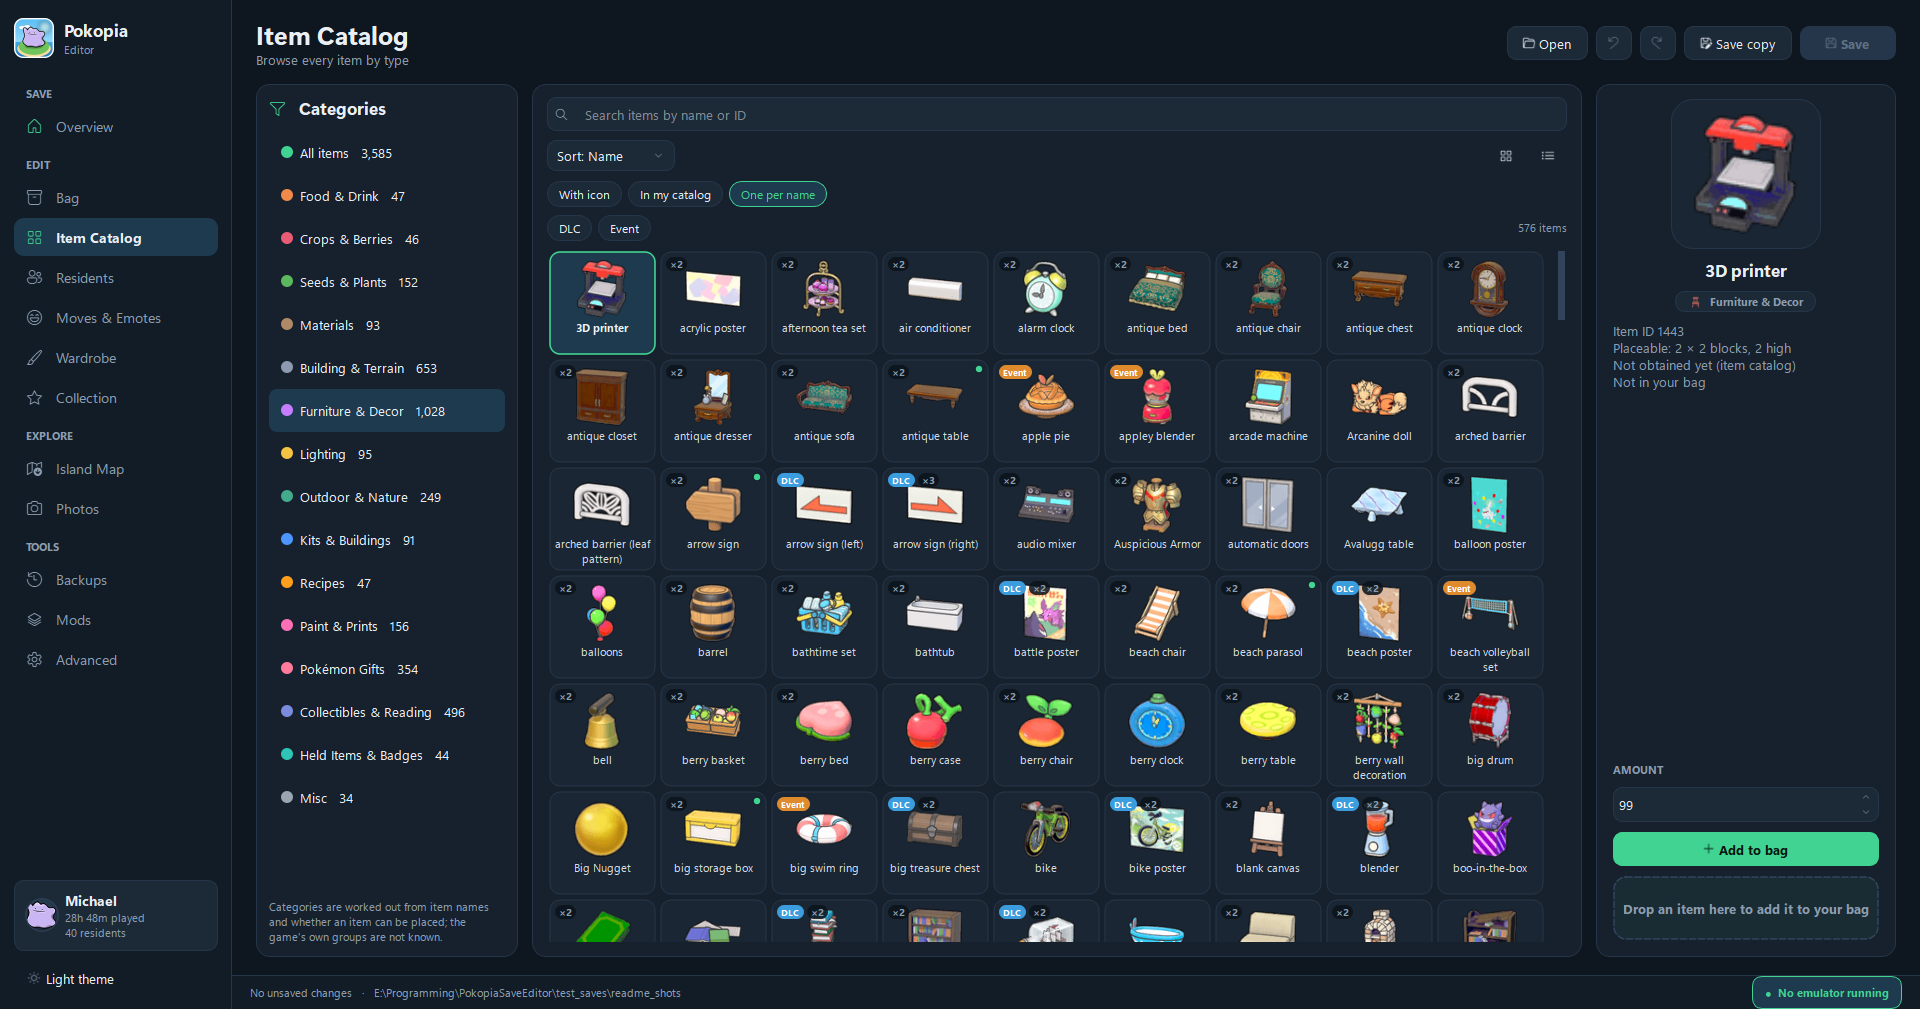
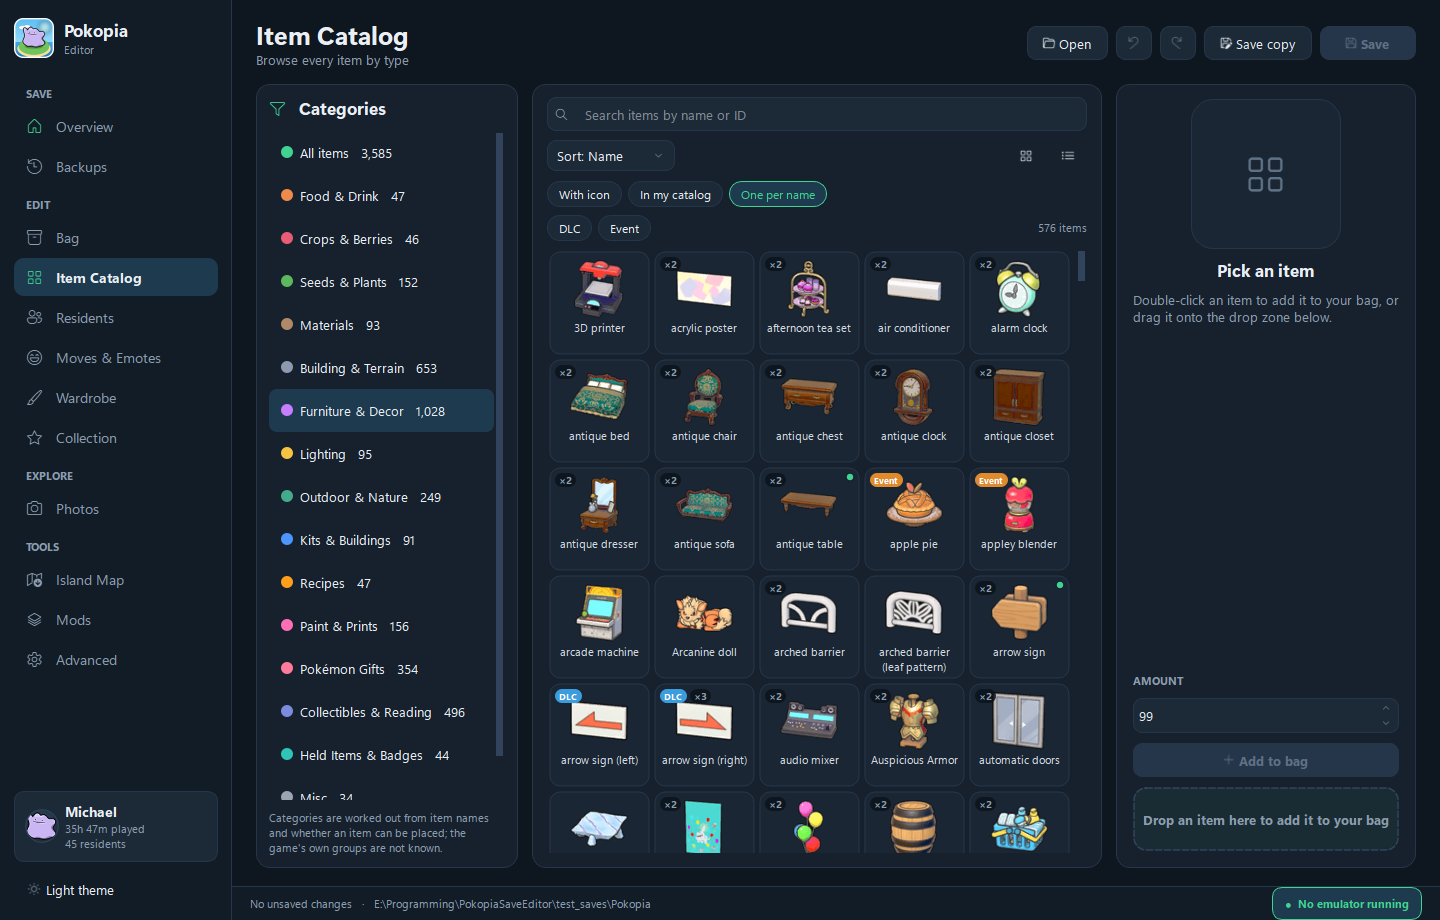
What's New opens the Island Map; README screenshots for 1.9.0

diff --git a/gui/dialogs.py b/gui/dialogs.py
@@ -174,18 +174,19 @@ class ChangesDialog(Dialog):
 class WhatsNew(Dialog):
     """Shown once, the first time a new version is opened."""
 
-    def __init__(self, app, version, items):
+    def __init__(self, app, version, items, page=None):
         super().__init__(app, "What's new", 560, 10)
-        self.open_mods = False
+        self.open_page = None
+        self.page = page
         self.lay.addWidget(W.label(f"What's new in Pokopia Editor {version}", 'h2'))
         for title, text in items:
             self.lay.addWidget(W.label(f'<b>{html.escape(title)}</b><br>{html.escape(text)}', wrap=True))
         self.lay.addSpacing(6)
         row = W.hbox(None, W.button('Close', slot=self.accept))
-        if app.save:
-            row.addWidget(W.button('Open Mods', T.G['layers'], self.go_mods, accent=True))
+        if app.save and page:
+            row.addWidget(W.button(f'Open {page}', T.G.get('map' if page == 'Island Map' else 'layers'), self.go, accent=True))
         self.lay.addLayout(row)
 
-    def go_mods(self):
-        self.open_mods = True
+    def go(self):
+        self.open_page = self.page
         self.accept()

diff --git a/gui/app.py b/gui/app.py
@@ -13,7 +13,7 @@ from gui import theme as T
 from gui import widgets as W
 from gui.assets import Assets, app_icon, set_app_id
 from gui.updates import UpdateChecker
-from version import VERSION_STR, WHATS_NEW
+from version import VERSION_STR, WHATS_NEW, WHATS_NEW_PAGE
 
 HERE = os.path.dirname(os.path.dirname(os.path.abspath(__file__)))
 if getattr(sys, 'frozen', False):  # the exe keeps its settings in %APPDATA%\Pokopia Editor
@@ -94,12 +94,12 @@ class App(QMainWindow):
     def show_whats_new(self):
         """Once per version: a short list of what changed."""
         from gui.dialogs import WhatsNew
-        d = WhatsNew(self, VERSION_STR, WHATS_NEW)
+        d = WhatsNew(self, VERSION_STR, WHATS_NEW, WHATS_NEW_PAGE)
         d.exec()
         self.settings['whats_new_seen'] = VERSION_STR
         self.write_settings()
-        if d.open_mods and self.save:
-            self.show_page('Mods')
+        if d.open_page and self.save:
+            self.show_page(d.open_page)
 
     # ---------- updates ----------
     def on_update(self, tag, url):

diff --git a/version.py b/version.py
@@ -1,7 +1,8 @@
 """App version, read by the window (update check, What's New) and by PokopiaEditor.spec (exe file version).
 
 Bump this before building a release; the GitHub release tag should be v<VERSION>.
-Rewrite WHATS_NEW for each release: it is shown once, the first time that version is opened."""
+Rewrite WHATS_NEW for each release: it is shown once, the first time that version is opened.
+WHATS_NEW_PAGE is the page its button opens (None for no button)."""
 VERSION = (1, 9, 0)
 VERSION_STR = '.'.join(map(str, VERSION))
 
@@ -12,3 +13,4 @@ WHATS_NEW = [
     ('Recompia saves', 'Found automatically; choose which save opens at start.'),
     ('Function flags', 'The Advanced page lists every flag with a description, grouped by topic.'),
 ]
+WHATS_NEW_PAGE = 'Island Map'

diff --git a/README.md b/README.md
@@ -4,7 +4,7 @@
 
 # Pokopia Editor
 
-**Edit your Pokopia save: bag, residents, moves, emotes, wardrobe and collection. View your islands and photos. Install game mods.**
+**Edit your Pokopia save: bag, residents, moves, emotes, wardrobe, collection and your islands. Install game mods.**
 
 [![Download](https://img.shields.io/github/v/release/cycalo/Pokopia-Editor?label=Download&style=for-the-badge&color=2ecc71)](https://github.com/cycalo/Pokopia-Editor/releases/latest)
 ![Windows](https://img.shields.io/badge/Windows-10%20%7C%2011-0078D6?style=for-the-badge&logo=windows&logoColor=white)
@@ -25,7 +25,7 @@
 
 Supported emulators: **Eden · Yuzu · Suyu · Sudachi · Citron · Torzu · Ryujinx**.
 If your save isn't found, click **Open → Browse for a folder**.
-[Recompia](https://github.com/Dittobyte/Recompia) is supported too.
+[Recompia](https://github.com/Dittobyte/Recompia) saves are found automatically too; choose which one opens at start on the Overview page.
 
 > [!NOTE]
 > If Windows shows *"Windows protected your PC"*, click **More info → Run anyway**.
@@ -44,7 +44,7 @@ If your save isn't found, click **Open → Browse for a folder**.
 | ✨ | **Moves & Emotes** | Learn or unlearn with a click, then set up your move and emote wheels |
 | 👕 | **Wardrobe** | Unlock any outfit or hairstyle, or all of them at once, including the Expansion Pass ones |
 | ⭐ | **Collection** | Complete the Pokédex, Habitat Dex, recipes, item list, Human Records, Ancient Artifacts, Highlight Reel, and photo frames and filters, one at a time or all at once. Turn on upgrades and set your Life Coins |
-| 🗺 | **Island Map** | See each island from above with everything you've placed. Export it as a PNG |
+| 🗺 | **Island Map** | Edit your islands: move, place and delete objects, paint paths, raise or flatten the ground, and build any of 252 habitats in one click. Export as PNG |
 | 📷 | **Photos** | Browse your in-game album and export full-size photos |
 | 🛟 | **Backups** | Make, compare, restore and delete backups |
 | 🧩 | **Mods** | Install game mods: Play as Pokemon, Unlimited Crafting Storage Range |
